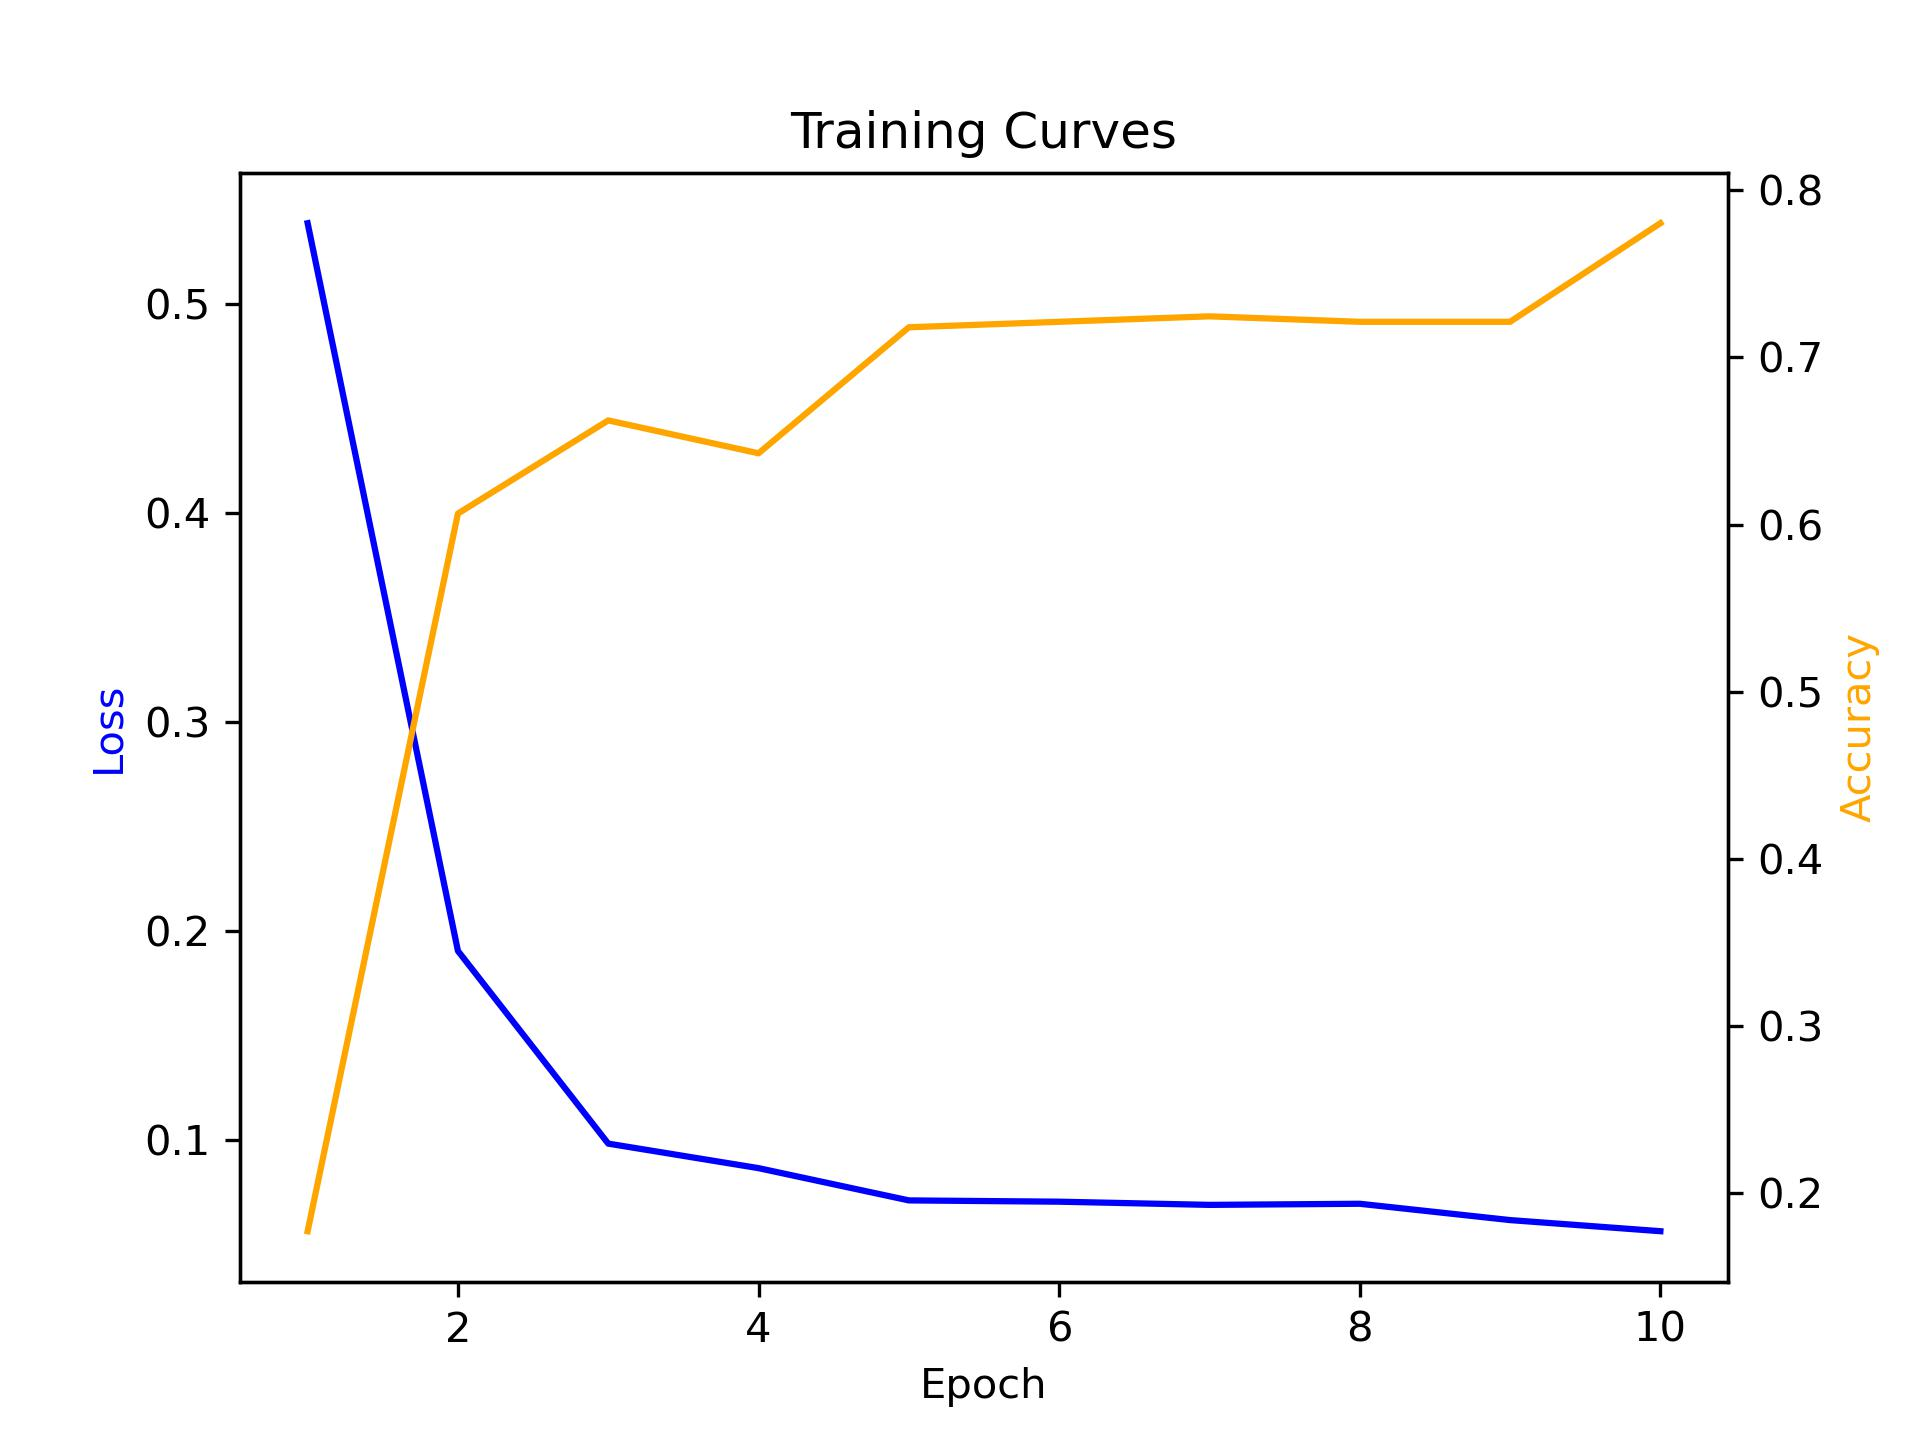
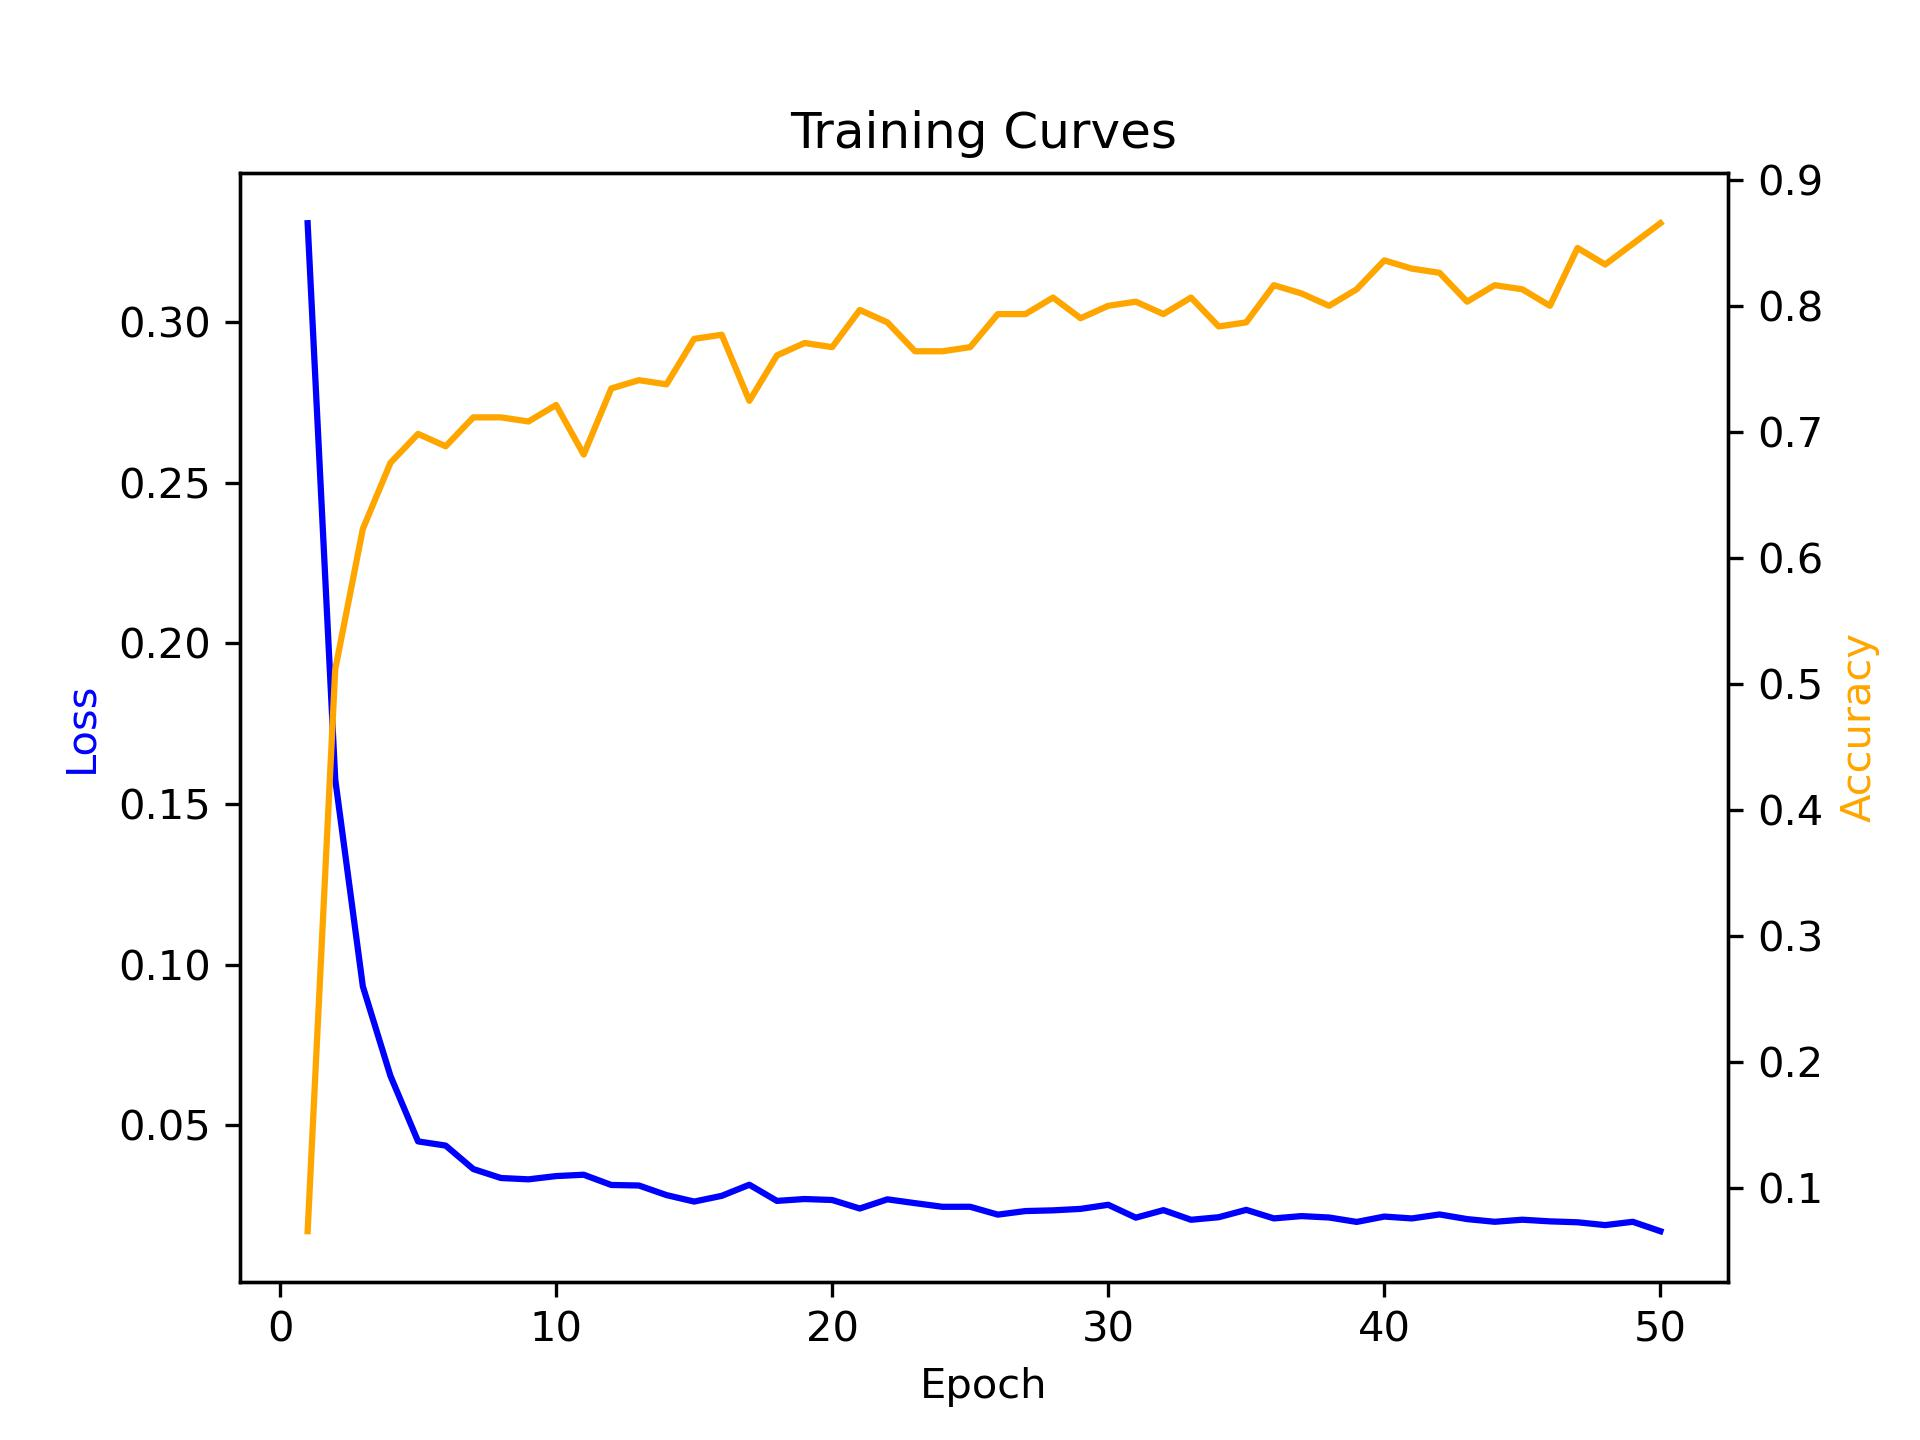
test acc ard 70% weight decay

diff --git a/problem_2/losses.py b/problem_2/losses.py
@@ -9,6 +9,21 @@ import os
 from util import sample_values
 from util import make_sampling_array
 
+import torch
+import torch.nn.functional as F
+
+class ContrastiveLoss(torch.nn.Module):
+
+    def __init__(self, margin=2.0):
+        super(ContrastiveLoss, self).__init__()
+        self.margin = margin
+
+    def forward(self, output1, output2, label):
+        euclidean_distance = F.pairwise_distance(output1, output2)
+        pos = (1-label) * torch.pow(euclidean_distance, 2)
+        neg = (label) * torch.pow(torch.clamp(self.margin - euclidean_distance, min=0.0), 2)
+        loss_contrastive = torch.mean( pos + neg )
+        return loss_contrastive
 
 class NCELoss(nn.Module):
     """ Class for calculating of the noise-contrasting estimation loss. """
@@ -125,6 +140,128 @@ class ContrastiveLoss(torch.nn.Module):
         neg = (label) * torch.pow(torch.clamp(self.margin - euclidean_distance, min=0.0), 2)
         loss_contrastive = torch.mean( pos + neg )
         return loss_contrastive
+
+# import torch
+# import torch.nn.functional as F
+# from torch import nn
+
+__all__ = ['InfoNCE', 'info_nce']
+
+
+class InfoNCE(nn.Module):
+    """
+    Calculates the InfoNCE loss for self-supervised learning.
+    This contrastive loss enforces the embeddings of similar (positive) samples to be close
+        and those of different (negative) samples to be distant.
+    A query embedding is compared with one positive key and with one or more negative keys.
+    References:
+        https://arxiv.org/abs/1807.03748v2
+        https://arxiv.org/abs/2010.05113
+    Args:
+        temperature: Logits are divided by temperature before calculating the cross entropy.
+        reduction: Reduction method applied to the output.
+            Value must be one of ['none', 'sum', 'mean'].
+            See torch.nn.functional.cross_entropy for more details about each option.
+        negative_mode: Determines how the (optional) negative_keys are handled.
+            Value must be one of ['paired', 'unpaired'].
+            If 'paired', then each query sample is paired with a number of negative keys.
+            Comparable to a triplet loss, but with multiple negatives per sample.
+            If 'unpaired', then the set of negative keys are all unrelated to any positive key.
+    Input shape:
+        query: (N, D) Tensor with query samples (e.g. embeddings of the input).
+        positive_key: (N, D) Tensor with positive samples (e.g. embeddings of augmented input).
+        negative_keys (optional): Tensor with negative samples (e.g. embeddings of other inputs)
+            If negative_mode = 'paired', then negative_keys is a (N, M, D) Tensor.
+            If negative_mode = 'unpaired', then negative_keys is a (M, D) Tensor.
+            If None, then the negative keys for a sample are the positive keys for the other samples.
+    Returns:
+         Value of the InfoNCE Loss.
+     Examples:
+        >>> loss = InfoNCE()
+        >>> batch_size, num_negative, embedding_size = 32, 48, 128
+        >>> query = torch.randn(batch_size, embedding_size)
+        >>> positive_key = torch.randn(batch_size, embedding_size)
+        >>> negative_keys = torch.randn(num_negative, embedding_size)
+        >>> output = loss(query, positive_key, negative_keys)
+    """
+
+    def __init__(self, temperature=0.1, reduction='mean', negative_mode='unpaired'):
+        super().__init__()
+        self.temperature = temperature
+        self.reduction = reduction
+        self.negative_mode = negative_mode
+
+    def forward(self, query, positive_key, negative_keys=None):
+        return info_nce(query, positive_key, negative_keys,
+                        temperature=self.temperature,
+                        reduction=self.reduction,
+                        negative_mode=self.negative_mode)
+
+
+def info_nce(query, positive_key, negative_keys=None, temperature=0.1, reduction='mean', negative_mode='unpaired'):
+    # Check input dimensionality.
+    if query.dim() != 2:
+        raise ValueError('<query> must have 2 dimensions.')
+    if positive_key.dim() != 2:
+        raise ValueError('<positive_key> must have 2 dimensions.')
+    if negative_keys is not None:
+        if negative_mode == 'unpaired' and negative_keys.dim() != 2:
+            raise ValueError("<negative_keys> must have 2 dimensions if <negative_mode> == 'unpaired'.")
+        if negative_mode == 'paired' and negative_keys.dim() != 3:
+            raise ValueError("<negative_keys> must have 3 dimensions if <negative_mode> == 'paired'.")
+
+    # Check matching number of samples.
+    if len(query) != len(positive_key):
+        raise ValueError('<query> and <positive_key> must must have the same number of samples.')
+    if negative_keys is not None:
+        if negative_mode == 'paired' and len(query) != len(negative_keys):
+            raise ValueError("If negative_mode == 'paired', then <negative_keys> must have the same number of samples as <query>.")
+
+    # Embedding vectors should have same number of components.
+    if query.shape[-1] != positive_key.shape[-1]:
+        raise ValueError('Vectors of <query> and <positive_key> should have the same number of components.')
+    if negative_keys is not None:
+        if query.shape[-1] != negative_keys.shape[-1]:
+            raise ValueError('Vectors of <query> and <negative_keys> should have the same number of components.')
+
+    # Normalize to unit vectors
+    query, positive_key, negative_keys = normalize(query, positive_key, negative_keys)
+    if negative_keys is not None:
+        # Explicit negative keys
+
+        # Cosine between positive pairs
+        positive_logit = torch.sum(query * positive_key, dim=1, keepdim=True)
+
+        if negative_mode == 'unpaired':
+            # Cosine between all query-negative combinations
+            negative_logits = query @ transpose(negative_keys)
+
+        elif negative_mode == 'paired':
+            query = query.unsqueeze(1)
+            negative_logits = query @ transpose(negative_keys)
+            negative_logits = negative_logits.squeeze(1)
+
+        # First index in last dimension are the positive samples
+        logits = torch.cat([positive_logit, negative_logits], dim=1)
+        labels = torch.zeros(len(logits), dtype=torch.long, device=query.device)
+    else:
+        # Negative keys are implicitly off-diagonal positive keys.
+
+        # Cosine between all combinations
+        logits = query @ transpose(positive_key)
+
+        # Positive keys are the entries on the diagonal
+        labels = torch.arange(len(query), device=query.device)
+
+    return F.cross_entropy(logits / temperature, labels, reduction=reduction)
+
+
+def transpose(x):
+    return x.transpose(-2, -1)
+
+
+def normalize(*xs):
+    return [None if x is None else F.normalize(x, dim=-1) for x in xs]
 
 
 # import math

diff --git a/problem_2/train.py b/problem_2/train.py
@@ -13,6 +13,7 @@ import numpy as np
 from sklearn.metrics import accuracy_score
 from tqdm import tqdm
 from matplotlib import pyplot as plt
+# import InfoNCE
 
 # from model import ResNet50
 
@@ -20,22 +21,28 @@ from matplotlib import pyplot as plt
 
 from dataset import Skin7
 
-from losses import NCELoss
+from losses import NCELoss, InfoNCE, ContrastiveLoss
 # from loss import class_balanced_loss
 
 device = torch.device("cuda") #if torch.cuda.is_available() else "cpu")
 
 ###
-transform = transforms.Compose([
+train_transform = transforms.Compose([
     transforms.RandomCrop(size=[112, 112]),
     transforms.RandomVerticalFlip(),
     transforms.RandomHorizontalFlip(),
     transforms.RandomRotation(degrees=[0, 360]),
-    transforms.ToTensor(),
+    transforms.ToTensor()
 ])
 
-train_transform = transform  # None
-test_transform = transform  # None
+# train_transform = transform  # None
+test_transform = transforms.Compose([
+    # transforms.RandomCrop(size=[112, 112]),
+    # transforms.RandomVerticalFlip(),
+    # transforms.RandomHorizontalFlip(),
+    # transforms.RandomRotation(degrees=[0, 360]),
+    transforms.ToTensor()
+])
 
 trainset = Skin7(train=True, transform=train_transform, target_transform=None)
 testset = Skin7(train=False, transform=test_transform, target_transform=None)
@@ -57,18 +64,20 @@ testloader = torch.utils.data.DataLoader(testset,
 
 # Loss
 # nce = NCELoss().to(device)
-
+# nce = InfoNCE().to(device)
+# nce = ContrastiveLoss(margin=1.5).to(device)
 criterion = nn.CrossEntropyLoss().to(device)
 
 # Optmizer
 Lr = 1e-4 # 0.01
+weight_decay =1e-4
 # optimizer = torch.optim.SGD(net.parameters(), lr=Lr)  # None
 # optimizer = torch.optim.Adam(model.parameters(), lr = 0.0001)
 # optimizer = torch.optim.SGD(net.parameters(), lr=Lr, momentum=0.9)
 # scheduler = torch.optim.lr_scheduler.ReduceLROnPlateau(
 #                 optimizer, mode='min', factor=0.1, patience=50, verbose=True,
 #                 threshold=1e-4)
-optimizer = torch.optim.Adam(net.parameters(), lr=Lr,
+optimizer = torch.optim.Adam(net.parameters(), lr=Lr, weight_decay= weight_decay,
                            betas=(0.9, 0.999), eps=1e-08, amsgrad=True)
 
 max_epoch = 50 # 50
@@ -113,9 +122,10 @@ def train(model, trainloader, max_epoch, optimizer):
             
             # calculate loss
             loss = criterion(outputs, labels)
-            # loss2 = nce()
 
-            # losses = [loss,loss2]
+            # loss2 = nce(outputs, labels)
+
+            # losses = sum(loss,loss2)
 
             # total_loss = sum(losses)
             # backward and optimize parameters
@@ -127,11 +137,14 @@ def train(model, trainloader, max_epoch, optimizer):
 
             pred = torch.argmax(outputs, dim=1)
             running_loss += loss.item()
+            # running_loss += losses.item()
             running_correct += torch.sum(pred == labels)
         
         # # record loss, accuracy
         loss = running_loss / len(trainset)
+        # losses = running_loss / len(trainset)
         loss_list.append(loss)
+        # loss_list.append(losses)
         
         acc_train = running_correct / len(trainset)
         acc_train_list.append(acc_train.item())
@@ -203,6 +216,9 @@ def test(model, testloader, max_epoch):
         outputs = model(images)
 
         loss = criterion(outputs, labels)
+        # loss2 = nce(outputs, labels)
+
+        # losses = [loss,loss2]
 
         # record the correct
         # predict = torch.argmax(outputs, dim=1)
@@ -213,10 +229,13 @@ def test(model, testloader, max_epoch):
 
         # pred = torch.argmax(outputs, dim=1)
         running_loss += loss.item()
+        # running_loss += losses.item()
         test_correct += torch.sum(predict == labels)
 
     loss = running_loss / len(testset)
+    # losses = running_loss / len(testset)
     loss_list.append(loss)
+    # loss_list.append(losses)
 
     acc_test = test_correct / len(testset)
     acc_test_list.append(acc_test.item())
